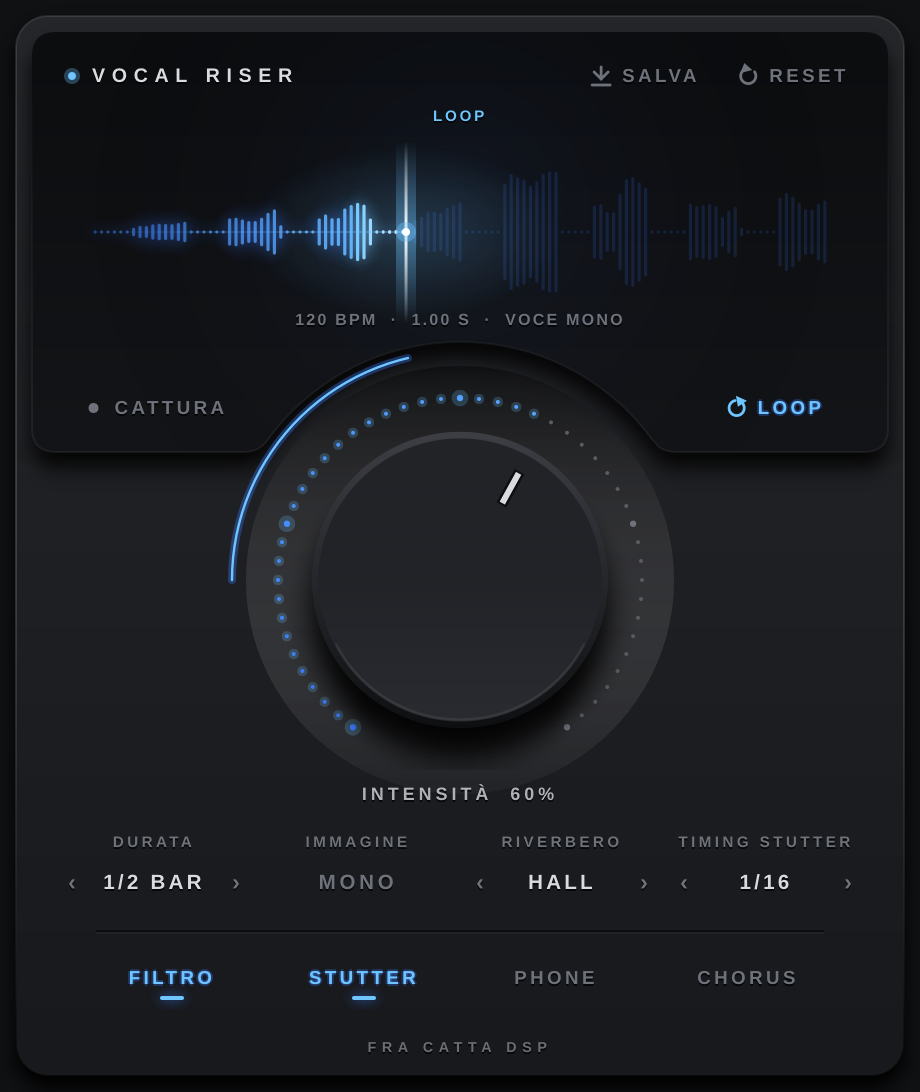
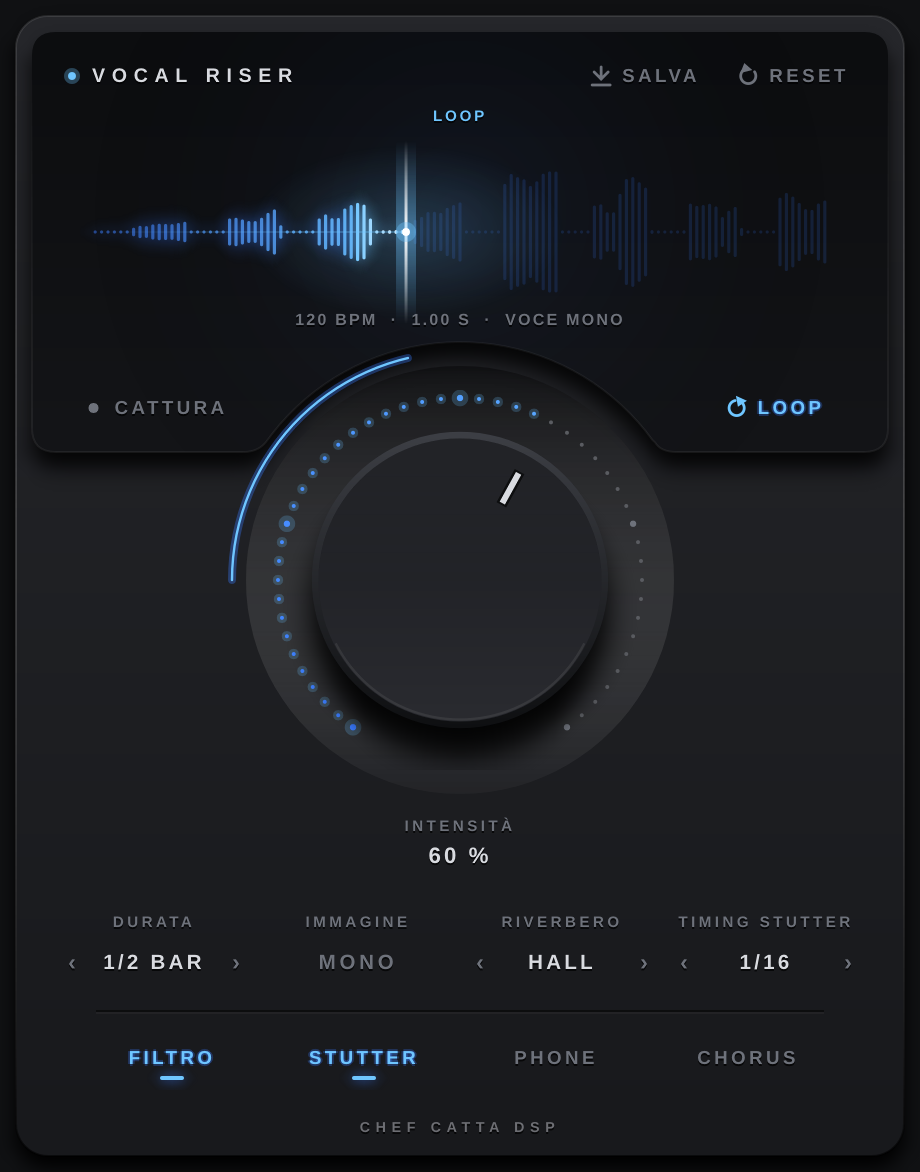
Sviluppatore chef catta dsp, etichetta intensita sotto la manopola
Claude-Session: https://claude.ai/code/session_01HaF7XKr7HpkpQMPQsrDZc5

diff --git a/Source/PluginEditor.cpp b/Source/PluginEditor.cpp
@@ -417,7 +417,7 @@ VocalRiserAudioProcessorEditor::VocalRiserAudioProcessorEditor (VocalRiserAudioP
     amountKnob.setDoubleClickReturnValue (true, 0.6);
     addAndMakeVisible (amountKnob);
     amountAtt = std::make_unique<SliderAtt> (apvts, "amount", amountKnob);
-    amountKnob.onValueChange = [this] { repaint (knobArea.getX() - 40, knobArea.getBottom(), knobArea.getWidth() + 80, 30); };
+    amountKnob.onValueChange = [this] { repaint (intensityArea); };
 
     // Selettori
     addAndMakeVisible (lengthSel);
@@ -443,7 +443,7 @@ VocalRiserAudioProcessorEditor::VocalRiserAudioProcessorEditor (VocalRiserAudioP
         buttonAtts.push_back (std::make_unique<ButtonAtt> (apvts, fxIds[i], b));
     }
 
-    setSize (460, 546);
+    setSize (460, 586);
     timerCallback();
     startTimerHz (60);
 }
@@ -533,11 +533,16 @@ void VocalRiserAudioProcessorEditor::paint (juce::Graphics& g)
     }
 
     // Valore intensita
-    const auto lab = juce::Rectangle<float> ((float) knobArea.getX() - 40.0f, (float) knobArea.getBottom() + 4.0f,
-                                             (float) knobArea.getWidth() + 80.0f, 16.0f);
-    g.setFont (labelFont (10.0f, 0.2f));
-    engravedText (g, juce::String (juce::CharPointer_UTF8 ("INTENSIT\xc3\x80  ")) + juce::String (juce::roundToInt (amountKnob.getValue() * 100.0)) + "%",
-                  lab, juce::Justification::centred, Colours::text.withAlpha (0.8f));
+    // sotto l'alloggiamento della manopola, impaginato come gli altri selettori
+    {
+        auto lab = intensityArea.toFloat();
+        g.setFont (labelFont (8.5f, 0.2f));
+        engravedText (g, juce::CharPointer_UTF8 ("INTENSIT\xc3\x80"), lab.removeFromTop (12.0f),
+                      juce::Justification::centred, Colours::dim);
+        g.setFont (labelFont (12.5f, 0.12f));
+        engravedText (g, juce::String (juce::roundToInt (amountKnob.getValue() * 100.0)) + " %", lab,
+                      juce::Justification::centred, Colours::text);
+    }
 
     // Etichetta sopra STEREO, come gli altri selettori
     const auto sb = stereoBtn.getBounds().toFloat();
@@ -555,7 +560,7 @@ void VocalRiserAudioProcessorEditor::paint (juce::Graphics& g)
 
     // Firma dello sviluppatore
     g.setFont (labelFont (8.0f, 0.35f));
-    engravedText (g, "FRA CATTA DSP", { shellR.getX(), shellR.getBottom() - 20.0f, shellR.getWidth(), 12.0f },
+    engravedText (g, "CHEF CATTA DSP", { shellR.getX(), shellR.getBottom() - 20.0f, shellR.getWidth(), 12.0f },
                   juce::Justification::centred, Colours::faint.brighter (0.35f));
 }
 
@@ -614,7 +619,11 @@ void VocalRiserAudioProcessorEditor::resized()
     loopBtn.setBounds (displayArea.getRight() - 100, ctrlY, 88, 28);
 
     // Sotto la manopola: selettori, effetti, firma
-    int y = knobArea.getBottom() + 30;
+    // Intensita: sotto l'alloggiamento della manopola, con un po' di respiro
+    const int recessBottom = juce::roundToInt (knobCentre.y + (float) ks * 0.5f + 12.0f);
+    intensityArea = juce::Rectangle<int> (juce::roundToInt (knobCentre.x) - 70, recessBottom + 10, 140, 30);
+
+    int y = intensityArea.getBottom() + 18;
     auto sel = juce::Rectangle<int> (shell.getX() + 18, y, shell.getWidth() - 36, 40);
     const int sw = sel.getWidth() / 4;
     lengthSel.setBounds (sel.removeFromLeft (sw).reduced (2, 0));

diff --git a/Source/PluginEditor.h b/Source/PluginEditor.h
@@ -82,7 +82,7 @@ private:
     std::unique_ptr<SliderAtt> amountAtt;
     std::vector<std::unique_ptr<ButtonAtt>> buttonAtts;
 
-    juce::Rectangle<int> displayArea, knobArea;
+    juce::Rectangle<int> displayArea, knobArea, intensityArea;
     juce::Path displayShape;                 // display con l'incavo per la manopola
     juce::Point<float> knobCentre;
     float notchRadius = 0.0f;

diff --git a/README.md b/README.md
@@ -1,4 +1,4 @@
-# Vocal Riser — fra catta dsp
+# Vocal Riser — chef catta dsp
 
 Plugin (AU / VST3) per creare riser sulle voci in pochi secondi, direttamente in sessione.
 Il plugin **non modifica la traccia**: ascolta la voce, genera il riser e te lo fa trascinare nella timeline.
